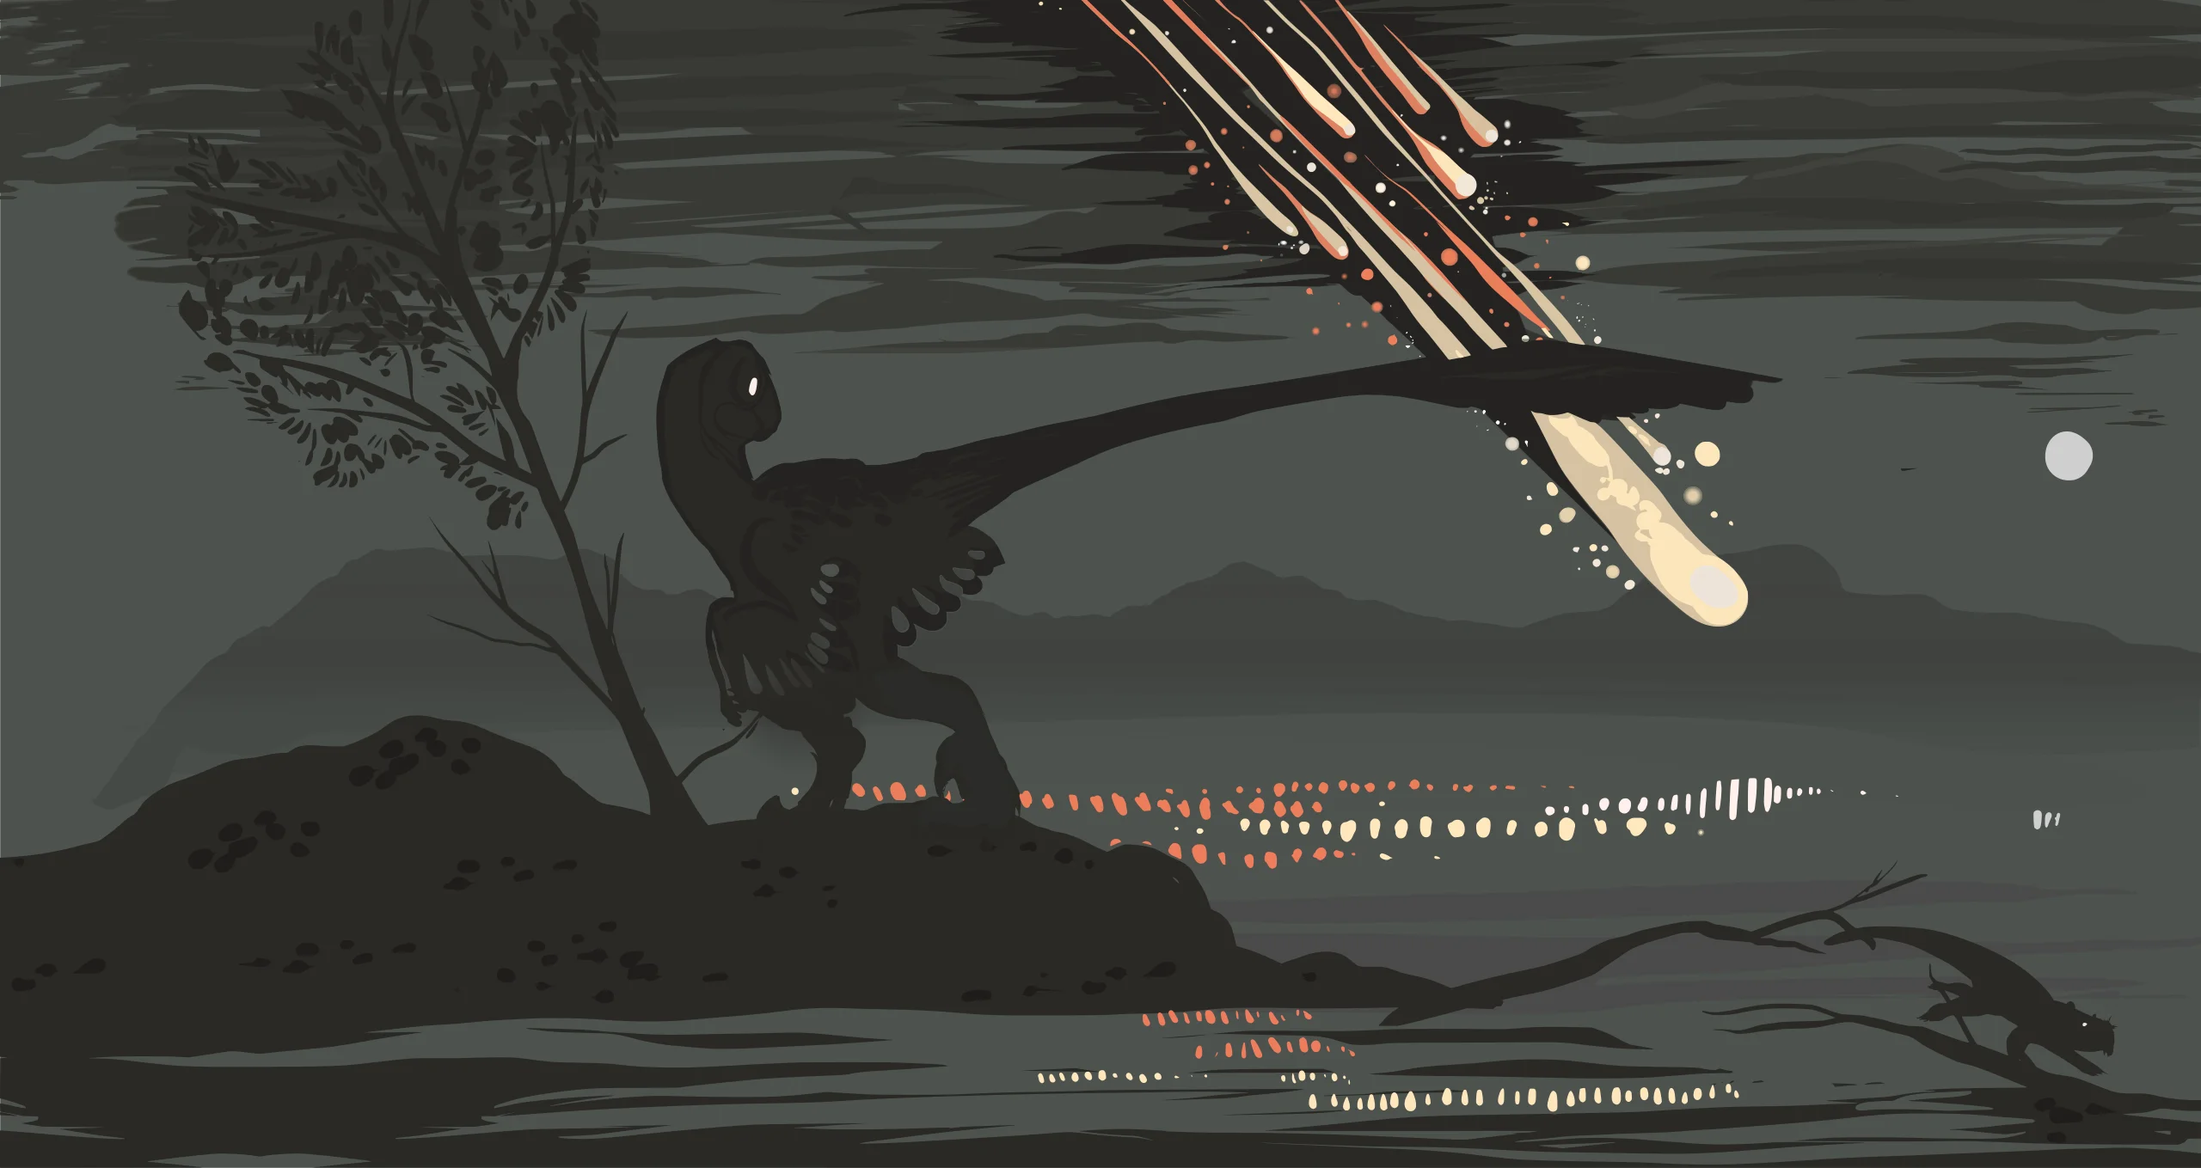
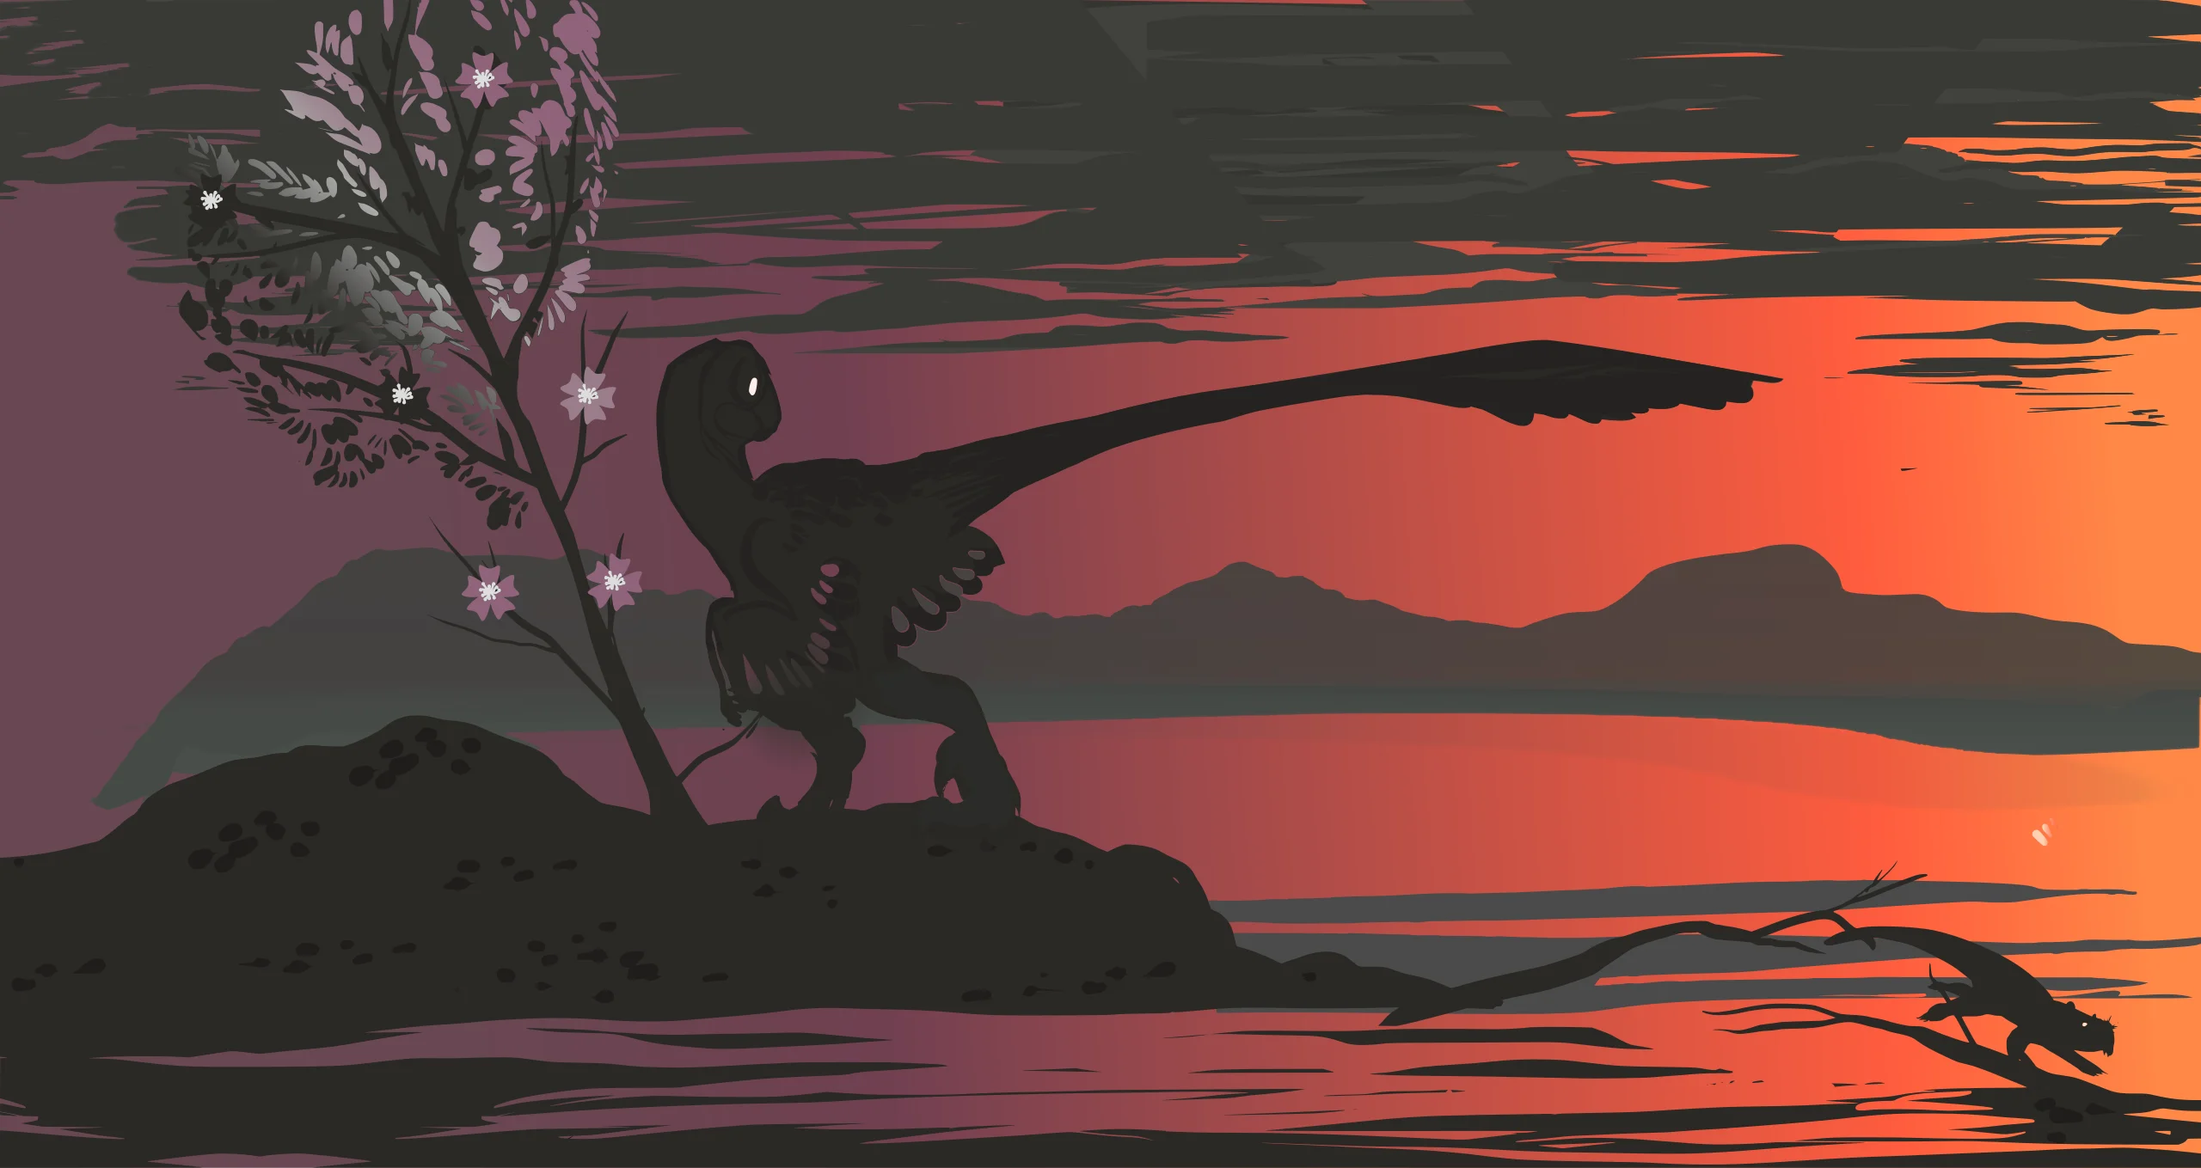
fix(wolves): make the Collapse actually fade day to night, and dissolve into it
The Collapse plates shipped named the wrong way round. The file called
`bluefin-collapse-night.webp` is the warm sunset and the one called
`bluefin-collapse-day.webp` is the grey moonlit scene, so the finale's
cross-fade ran backwards: the scene *brightened* into "Survival is the
exception." Every clock assertion passed the whole time — "night opacity is
1.000 on the Become Legend cue" was true, and the wrong picture was on screen.

The files are swapped to match what they depict rather than the constants being
crossed, because a constant that deliberately reads from the wrong file is a
trap for whoever touches this next. The prologue follows the image it was
already showing, not the old name, so it is unchanged on stage. The browser
harness now decodes both plates and fails if the day plate is ever the darker
of the two again.

The finale also stopped cutting to the frame. The cover was a hard cut that
replaced the entire stage between two frames with nothing carrying across,
which on a projector reads as a fault rather than as a transition and was most
of what "the finale is jarring" meant. It dissolves over four beats of the
show's own grid instead, and the opaque backdrop moved onto the dissolving
frame so the black arrives *with* the picture rather than a frame ahead of it.
Clock-derived like every other beat in that file, so seeking backward still
gives the stage back.

The schedule still ends on the finale beat. Running it on through the finale as
[…]

diff --git a/src/tests/wolvesDirectorsCutFinaleStage.test.ts b/src/tests/wolvesDirectorsCutFinaleStage.test.ts
@@ -8,7 +8,7 @@ import CinematicStage from '@/components/wolves/cinematic/CinematicStage.vue'
 import TheaterExperience from '@/components/wolves/cinematic/TheaterExperience.vue'
 import WolvesDirectorFinale from '@/components/wolves/cinematic/WolvesDirectorFinale.vue'
 import { loreProsePages, pickPageIndexForElapsed } from '@/components/wolves/lore/lore-pages'
-import { companionSourceTimeAt, DIRECTORS_CUT_COMPANION_DRIFT_INTERVAL_S, DIRECTORS_CUT_COMPANION_DRIFT_TOLERANCE_S, DIRECTORS_CUT_COMPANION_READINESS_DEADLINE_S, DIRECTORS_CUT_COMPANION_VIDEO_ID, DIRECTORS_CUT_EXTINCTION_FADE_SECONDS, DIRECTORS_CUT_FINALE_ANCHORS } from '@/data/wolves-directors-cut-finale'
+import { companionSourceTimeAt, DIRECTORS_CUT_COMPANION_DRIFT_INTERVAL_S, DIRECTORS_CUT_COMPANION_DRIFT_TOLERANCE_S, DIRECTORS_CUT_COMPANION_READINESS_DEADLINE_S, DIRECTORS_CUT_COMPANION_VIDEO_ID, DIRECTORS_CUT_COVER_FADE_SECONDS, DIRECTORS_CUT_EXTINCTION_FADE_SECONDS, DIRECTORS_CUT_FINALE_ANCHORS } from '@/data/wolves-directors-cut-finale'
 import { DIRECTORS_CUT_BULLETIN_ARTIFACT_ID, DIRECTORS_CUT_BULLETIN_END, DIRECTORS_CUT_BULLETIN_START, DIRECTORS_CUT_FINALE_START } from '@/data/wolves-directors-cut-timeline'
 import { loadAllLoreRecords } from '@/data/wolves-lore-records'
 import { useCinematicStore, WOLVES_DIRECTORS_CUT_EXPERIENCE, WOLVES_EXPERIENCE } from '@/stores/cinematic'
@@ -270,6 +270,42 @@ describe('director\'s cut finale composition', () => {
     expect(wrapper.attributes('data-covering')).toBe('true')
     expect(wrapper.find('[data-director-finale-frame]').attributes('style') ?? '').not.toContain('display: none')
     expect(wrapper.find('[data-director-finale-night]').attributes('data-night-opacity')).toBe('0.000')
+  })
+
+  it('dissolves the frame up over the cover beats instead of cutting to it', async () => {
+    // The hard cut here was most of "the finale is jarring": the entire stage
+    // was replaced between two frames, with nothing carrying across. The
+    // dissolve is clock-derived like every other beat, so a backward seek gives
+    // the stage back rather than stranding a finished animation on it.
+    const { store, wrapper } = await mountFinaleAt(DIRECTORS_CUT_FINALE_START)
+    const opacity = () => Number(wrapper.find('[data-director-finale-frame]').attributes('data-cover-opacity'))
+    expect(opacity()).toBe(0)
+
+    const half = DIRECTORS_CUT_FINALE_START + DIRECTORS_CUT_COVER_FADE_SECONDS / 2
+    store.updateTime(half, 424, half)
+    await nextTick()
+    expect(opacity()).toBeCloseTo(0.5, 2)
+
+    const done = DIRECTORS_CUT_FINALE_START + DIRECTORS_CUT_COVER_FADE_SECONDS
+    store.updateTime(done, 424, done)
+    await nextTick()
+    expect(opacity()).toBe(1)
+
+    // …and it is still 1 for the rest of the show, not a pulse.
+    store.updateTime(420, 424, 420)
+    await nextTick()
+    expect(opacity()).toBe(1)
+  })
+
+  it('carries the opaque backdrop on the dissolving frame, not on the cover class', () => {
+    // If the black lives on `.wc-dcf--covering` it arrives a frame ahead of the
+    // picture, which reads as a blackout rather than as a transition.
+    const source = readFileSync(
+      resolve(process.cwd(), 'src/components/wolves/cinematic/WolvesDirectorFinale.vue'),
+      'utf8',
+    )
+    expect(source).toMatch(/\.wc-dcf-frame\s*\{[^}]*background: var\(--wc-bg\)/)
+    expect(source).not.toMatch(/\.wc-dcf--covering\s*\{[^}]*background: var\(--wc-bg\)/)
   })
 
   it('turns the Collapse plate to night by the Become Legend cue', async () => {
@@ -1020,6 +1056,12 @@ describe('director\'s cut finale chrome suppression', () => {
     // full-size photographs, crossfading them, and paging a lore record behind
     // an opaque plate — all of it competing with the companion embed the
     // audience can actually see. The grid is taken down, not painted over.
+    //
+    // Running it on in a small bottom-left panel through the finale was tried
+    // and rejected: beside the Collapse fade and the closing quote it is one
+    // moving picture too many, and the deck reads as something that failed to
+    // stop rather than something that ended. The pictures finish on this beat
+    // and the finale carries the rest of the song by itself.
     expect(wrapper.find('[data-trackzero-grid]').exists()).toBe(false)
     expect(wrapper.find('.comic-reader-stub').exists()).toBe(false)
     expect(wrapper.find('.lore-stub').exists()).toBe(false)

diff --git a/src/data/wolves-directors-cut-finale.ts b/src/data/wolves-directors-cut-finale.ts
@@ -103,6 +103,12 @@ const BULLETIN_END_BEAT_INDEX = 969
 const BULLETIN_BEATS = 160
 
 /**
+ * The beat the finale has finished taking the frame on: one bar of four after
+ * the cover opens. See `DIRECTORS_CUT_COVER_FADE_SECONDS`.
+ */
+const COVER_FADE_END_BEAT_INDEX = 883
+
+/**
  * Every named show-clock anchor of the Director's Cut finale, in seconds on the
  * Track 0 timeline. Each one is an exact entry of `TRACK_ZERO_BEAT_TIMES`.
  *
@@ -297,6 +303,37 @@ export function directorsCutCollapseNightOpacity(time: number): number {
   return clampUnit((time - DIRECTORS_CUT_FINALE_ANCHORS.collapseDayStart) / span)
 }
 
+/**
+ * How long the finale takes to take the frame, in seconds.
+ *
+ * Four beats of the show's own grid rather than a round number of seconds, so
+ * the dissolve resolves on a beat instead of landing between two.
+ */
+export const DIRECTORS_CUT_COVER_FADE_SECONDS: number
+  = beat(COVER_FADE_END_BEAT_INDEX) - DIRECTORS_CUT_FINALE_ANCHORS.coverStart
+
+/**
+ * Opacity of the Collapse frame as the finale takes the stage: 0 on the cover
+ * beat, 1 four beats later, held for the rest of the show.
+ *
+ * This used to be a hard cut. On a projector it read as a fault rather than as
+ * a transition — the whole stage was replaced between two frames with nothing
+ * carrying across — which is most of what "the finale is jarring" was. The
+ * ordinary schedule does not vanish underneath it any more either; it shrinks
+ * into the corner over the same span, so the two motions are one gesture.
+ *
+ * Derived from the clock, like every other beat in this file, so a backward
+ * seek gives the stage back instead of stranding a finished animation on it.
+ */
+export function directorsCutCoverOpacity(time: number): number {
+  if (DIRECTORS_CUT_COVER_FADE_SECONDS <= 0) {
+    return time >= DIRECTORS_CUT_FINALE_ANCHORS.coverStart ? 1 : 0
+  }
+  return clampUnit(
+    (time - DIRECTORS_CUT_FINALE_ANCHORS.coverStart) / DIRECTORS_CUT_COVER_FADE_SECONDS,
+  )
+}
+
 /** Whether the first clause is on stage (including its own fade out). */
 export function directorsCutExtinctionVisible(time: number): boolean {
   return time >= DIRECTORS_CUT_FINALE_ANCHORS.extinctionStart
@@ -351,8 +388,18 @@ export const DIRECTORS_CUT_TERMINAL_FADE_SECONDS
 
 /**
  * The Collapse plates. Upstream replaced Bluefin's eleventh monthly pair with
- * this artwork; the Director's Cut intro already opens on the night plate, and
- * the finale turns the same scene from day to night under the closing quote.
+ * this artwork, and the finale turns the scene from day to night under the
+ * closing quote.
+ *
+ * The two files were shipped named the wrong way round — the one called "night"
+ * was the warm sunset, the one called "day" was the grey moonlit scene — so
+ * this cross-fade ran backwards on stage: the Collapse *brightened* into the
+ * closing quote. The files were swapped to match what they depict rather than
+ * these constants being crossed, because a constant that deliberately reads
+ * from the wrong file is a trap for whoever touches this next.
+ *
+ * `wolves-directors-cut-finale.mjs` decodes both plates in a browser and fails
+ * if the day plate is ever the darker of the two again.
  */
 export const DIRECTORS_CUT_COLLAPSE_DAY_IMAGE = 'wolves-intro/bluefin-collapse-day.webp'
 export const DIRECTORS_CUT_COLLAPSE_NIGHT_IMAGE = 'wolves-intro/bluefin-collapse-night.webp'

diff --git a/src/components/wolves/cinematic/WolvesDirectorFinale.vue b/src/components/wolves/cinematic/WolvesDirectorFinale.vue
@@ -54,6 +54,7 @@ import {
   directorsCutCompanionPlaying,
   directorsCutCompanionReadinessExpired,
   directorsCutCompanionVisible,
+  directorsCutCoverOpacity,
   directorsCutExtinctionFading,
   directorsCutExtinctionVisible,
   directorsCutSurvivalVisible,
@@ -75,6 +76,12 @@ const covering = computed(() => store.directorFinaleActive)
 const collapseDayUrl = `url('${base}${DIRECTORS_CUT_COLLAPSE_DAY_IMAGE}')`
 const collapseNightUrl = `url('${base}${DIRECTORS_CUT_COLLAPSE_NIGHT_IMAGE}')`
 const collapseNightOpacity = computed(() => directorsCutCollapseNightOpacity(time.value))
+/**
+ * How far the finale has taken the frame. Drives both the Collapse plate and
+ * the backdrop that hides the ordinary stage, so the two come up together
+ * rather than the black arriving first and the picture after it.
+ */
+const coverOpacity = computed(() => directorsCutCoverOpacity(time.value))
 
 const bulletinVisible = computed(() => covering.value && directorsCutBulletinVisible(time.value))
 /**
@@ -603,8 +610,19 @@ if (import.meta.env.DEV && typeof window !== 'undefined') {
     <!-- The Collapse plate takes the main frame: day on the finale beat, night
          on the Become Legend cue. Clock-derived rather than animated, so a
          backward seek restores the day plate instead of stranding a finished
-         animation on stage. -->
-    <div v-show="covering" class="wc-dcf-frame" data-director-finale-frame>
+         animation on stage.
+         The whole frame — its opaque backdrop included — dissolves up over
+         `DIRECTORS_CUT_COVER_FADE_SECONDS` rather than cutting in. The backdrop
+         lives on this element and not on `.wc-dcf--covering` precisely so it
+         fades *with* the picture: a black that arrives first is a blackout, not
+         a transition. -->
+    <div
+      v-show="covering"
+      class="wc-dcf-frame"
+      data-director-finale-frame
+      :data-cover-opacity="coverOpacity.toFixed(3)"
+      :style="{ opacity: coverOpacity }"
+    >
       <div class="wc-dcf-plate" :style="{ backgroundImage: collapseDayUrl }" />
       <div
         class="wc-dcf-plate wc-dcf-plate--night"
@@ -700,13 +718,19 @@ if (import.meta.env.DEV && typeof window !== 'undefined') {
 }
 
 .wc-dcf--covering {
-  background: var(--wc-bg);
+  // Nothing here. The opaque backdrop is on `.wc-dcf-frame` so it dissolves up
+  // with the Collapse plate instead of cutting in a frame ahead of it. The
+  // class is kept because `data-covering` and it are what the browser tests and
+  // the slide harness read the finale's state from.
+  background: transparent;
 }
 
 .wc-dcf-frame {
   position: absolute;
   inset: 0;
   overflow: hidden;
+  background: var(--wc-bg);
+  will-change: opacity;
 }
 
 .wc-dcf-plate {

diff --git a/src/data/wolves-directors-cut-intro.ts b/src/data/wolves-directors-cut-intro.ts
@@ -102,7 +102,18 @@ const HANDOFF_FIRST_MARK = 18
  */
 export const DIRECTORS_CUT_FINAL_CRESCENDO_SECOND = GAYANE_PROLOGUE_MARKS[19]
 
-const COLLAPSE_BACKGROUND = 'wolves-intro/bluefin-collapse-night.webp'
+/**
+ * The Collapse plate the prologue shows.
+ *
+ * This is the sunset side of the pair. It used to be spelled
+ * `bluefin-collapse-night.webp`, because the two files were named the wrong way
+ * round: the file called "night" was the warm sunset and the file called "day"
+ * was the grey moonlit scene. The finale cross-fades day into night off those
+ * names and was therefore fading *out of* night *into* a sunset. The files were
+ * swapped to match what they actually depict; this constant follows the image,
+ * not the old name, so the prologue shows exactly what it showed before.
+ */
+const COLLAPSE_BACKGROUND = 'wolves-intro/bluefin-collapse-day.webp'
 
 /**
  * Word ceiling for any cue projected in this prologue.

diff --git a/src/data/wolves-directors-cut-slides.ts b/src/data/wolves-directors-cut-slides.ts
@@ -58,6 +58,12 @@ export interface DirectorsCutReservedInterval {
  * once the finale opens it owns the frame through the terminal fade to black,
  * and that fade's end is a finale anchor, not a slide boundary. Nothing
  * ordinary ever resumes, so there is no closing edge to state.
+ *
+ * Running the schedule on through the finale in a corner panel was tried and
+ * rejected: beside the Collapse fade and the closing quote, a second moving
+ * picture in the corner is one thing too many to look at, and the deck reads as
+ * something that failed to stop rather than something that ended. The pictures
+ * finish here and the finale carries the rest of the song by itself.
  */
 export const DIRECTORS_CUT_RESERVED_FINALE_INTERVAL: DirectorsCutReservedInterval = {
   startTime: DIRECTORS_CUT_FINALE_START,

diff --git a/src/tests/wolvesIntroOverlay.test.ts b/src/tests/wolvesIntroOverlay.test.ts
@@ -96,8 +96,18 @@ interface MockPlayerRecord {
   /** The volume the player was sitting at when `destroy()` landed, or null if still alive. */
   destroyedAtVolume: number | null
   currentSeconds: number
+  /** Every caption module name actually unloaded, in order. */
+  unloadedModules: string[]
+  unloadModule: MockPlayerMethod<(module: string) => void>
   setCurrentTime: (seconds: number) => void
   triggerReady: () => void
+  /**
+   * Fire `onApiChange`, which is how the caption module actually arrives: the
+   * player reports it after the stream's caption track resolves, well after
+   * `onReady`. A double without it cannot see a regression that only unloads
+   * captions once.
+   */
+  triggerApiChange: () => void
   triggerEnded: () => void
   triggerError: () => void
 }

diff --git a/docs/skills/wolves-runtime-engineering/SKILL.md b/docs/skills/wolves-runtime-engineering/SKILL.md
@@ -466,6 +466,58 @@ already exists elsewhere, integrate that work rather than re-authoring it: the
 branch version carries measurement evidence that a fresh implementation cannot
 reconstruct from the rendered result.
 
+## A passing geometry harness is not a picture of the stage
+
+Every measurement can be right while the audience sees nothing. Three defects in
+one session all reported green from assertions that were themselves correct:
+
+- A panel was mounted, sized to the pixel, positioned in the right corner and
+  reported `opacity: 1` — and was invisible, because its ancestor
+  `.wc-trackzero` carries `z-index: 10` **and** `contain: layout paint`. Either
+  alone confines every descendant to a stacking context below the finale's
+  `z-index: 40`, so no `z-index` on the panel itself can lift it over the
+  Collapse plate. `getBoundingClientRect()` cannot see paint order.
+- The Collapse cross-fade ran *backwards* on stage while every clock assertion
+  passed, because the two plates shipped named the wrong way round:
+  `bluefin-collapse-night.webp` was the warm sunset and
+  `bluefin-collapse-day.webp` was the grey moonlit scene. "Night opacity is
+  1.000 at the Become Legend cue" was true and the scene still brightened into
+  the closing quote. `wolves-directors-cut-finale.mjs` now decodes both plates
+  in the browser and fails if the day plate is the darker one; correct the
+  *files* rather than crossing the constants, or the next reader inherits a
+  trap.
+- A full-stage overlay (`.wc-thesis`) rendered at panel scale and spilled out of
+  it, because it lives inside the viewer that was being resized.
+
+So: `WOLVES_SHOT_DIR=/var/tmp/website-agent/finale` writes a screenshot of every
+probed anchor from `tests/wolves-directors-cut-finale.mjs`. Look at them. The
+assertions answer "is it in the right place"; only the picture answers "can the
+back row see it at all".
+
+Two harness details this uncovered, worth keeping in mind whenever a finale
+surface animates:
+
+- CSS transitions run on wall-clock time from whenever the class landed, not on
+  the show clock. A performance never seeks, but a harness that jumps between
+  anchors every few hundred milliseconds re-enters the transition constantly and
+  samples mid-motion. Wait for the geometry to stop changing before measuring.
+- Never run two browser harnesses against one dev server at the same time; they
+  drive the same page and the loser reports phantom failures.
+
+## The finale owns the frame, and that is a composition decision
+
+The ordinary schedule is taken down at `DIRECTORS_CUT_FINALE_START`, not covered
+and not shrunk. Keeping it alive through the finale as a small bottom-left panel
+mirroring the companion video was built, measured and rejected on sight: beside
+the Collapse fade and the closing quote it is one moving picture too many, and a
+deck still cutting under the last line reads as something that failed to stop
+rather than something that ended.
+
+If that comes up again, the answer is the schedule ends on the finale beat and
+the finale carries the rest of the song alone. The reservation in
+`DIRECTORS_CUT_RESERVED_FINALE_INTERVAL` is what enforces it, and it is
+open-ended on purpose.
+
 ## Verification
 
 - [ ] Explicit approval exists.
